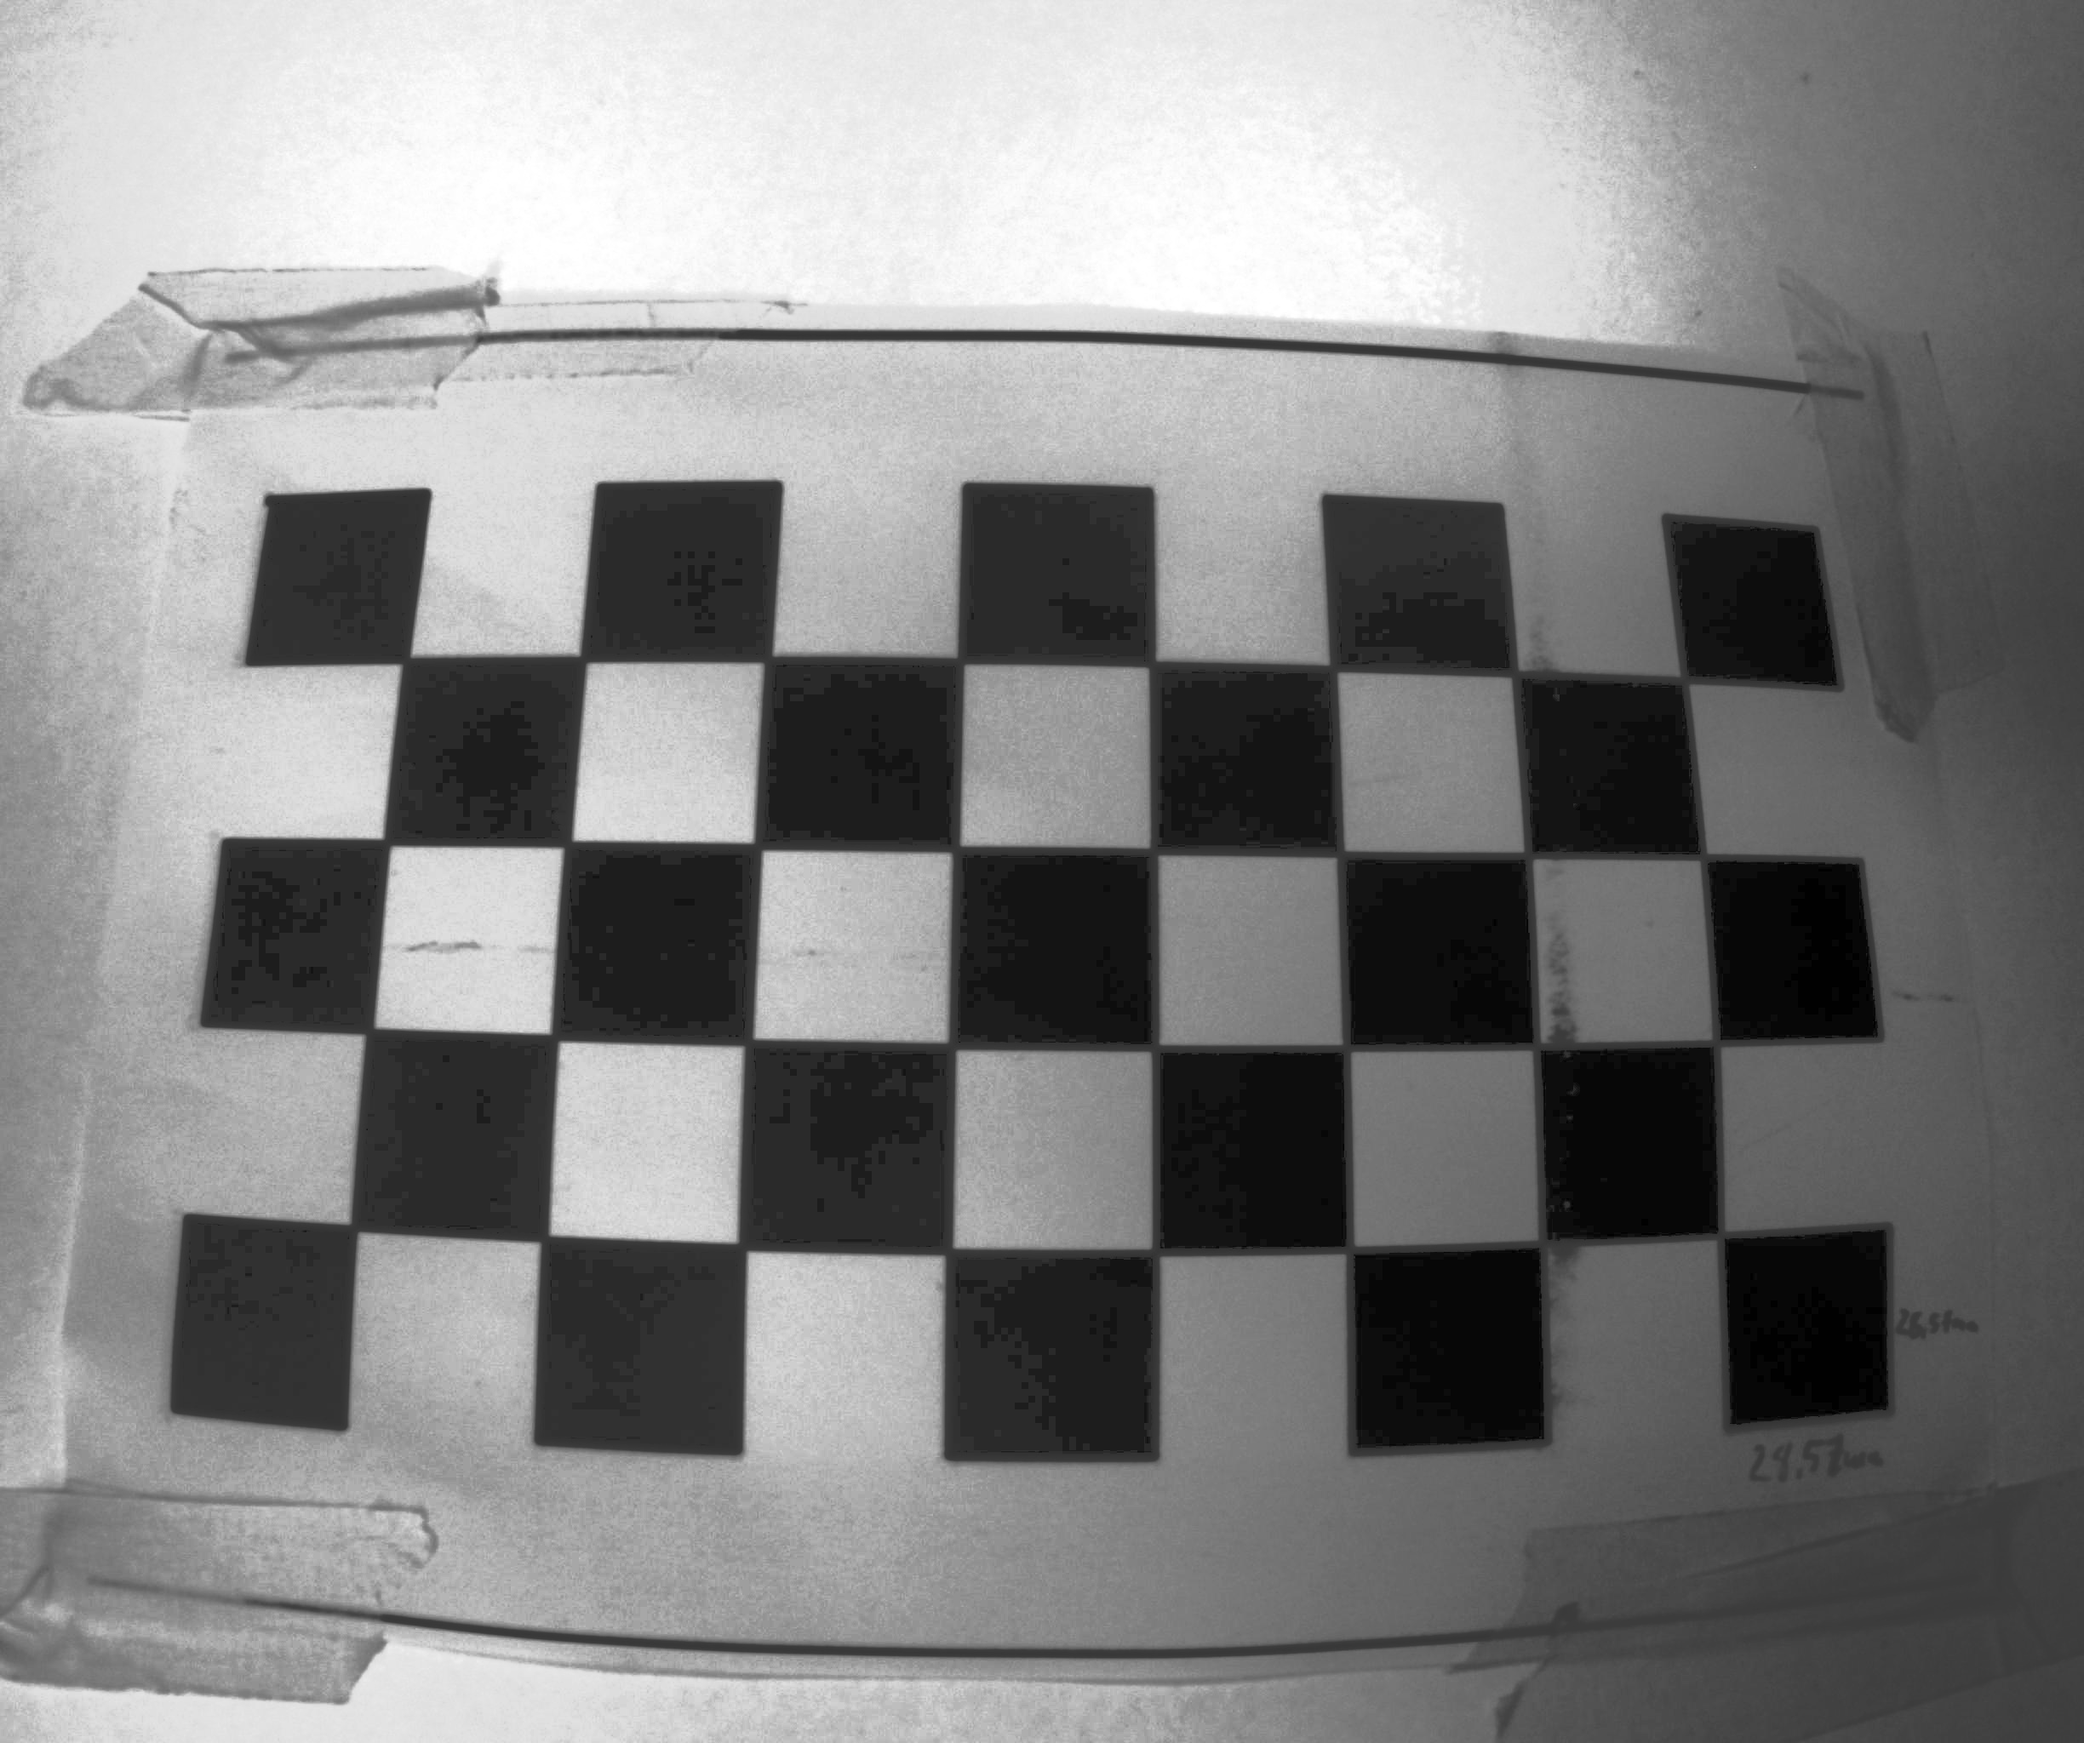
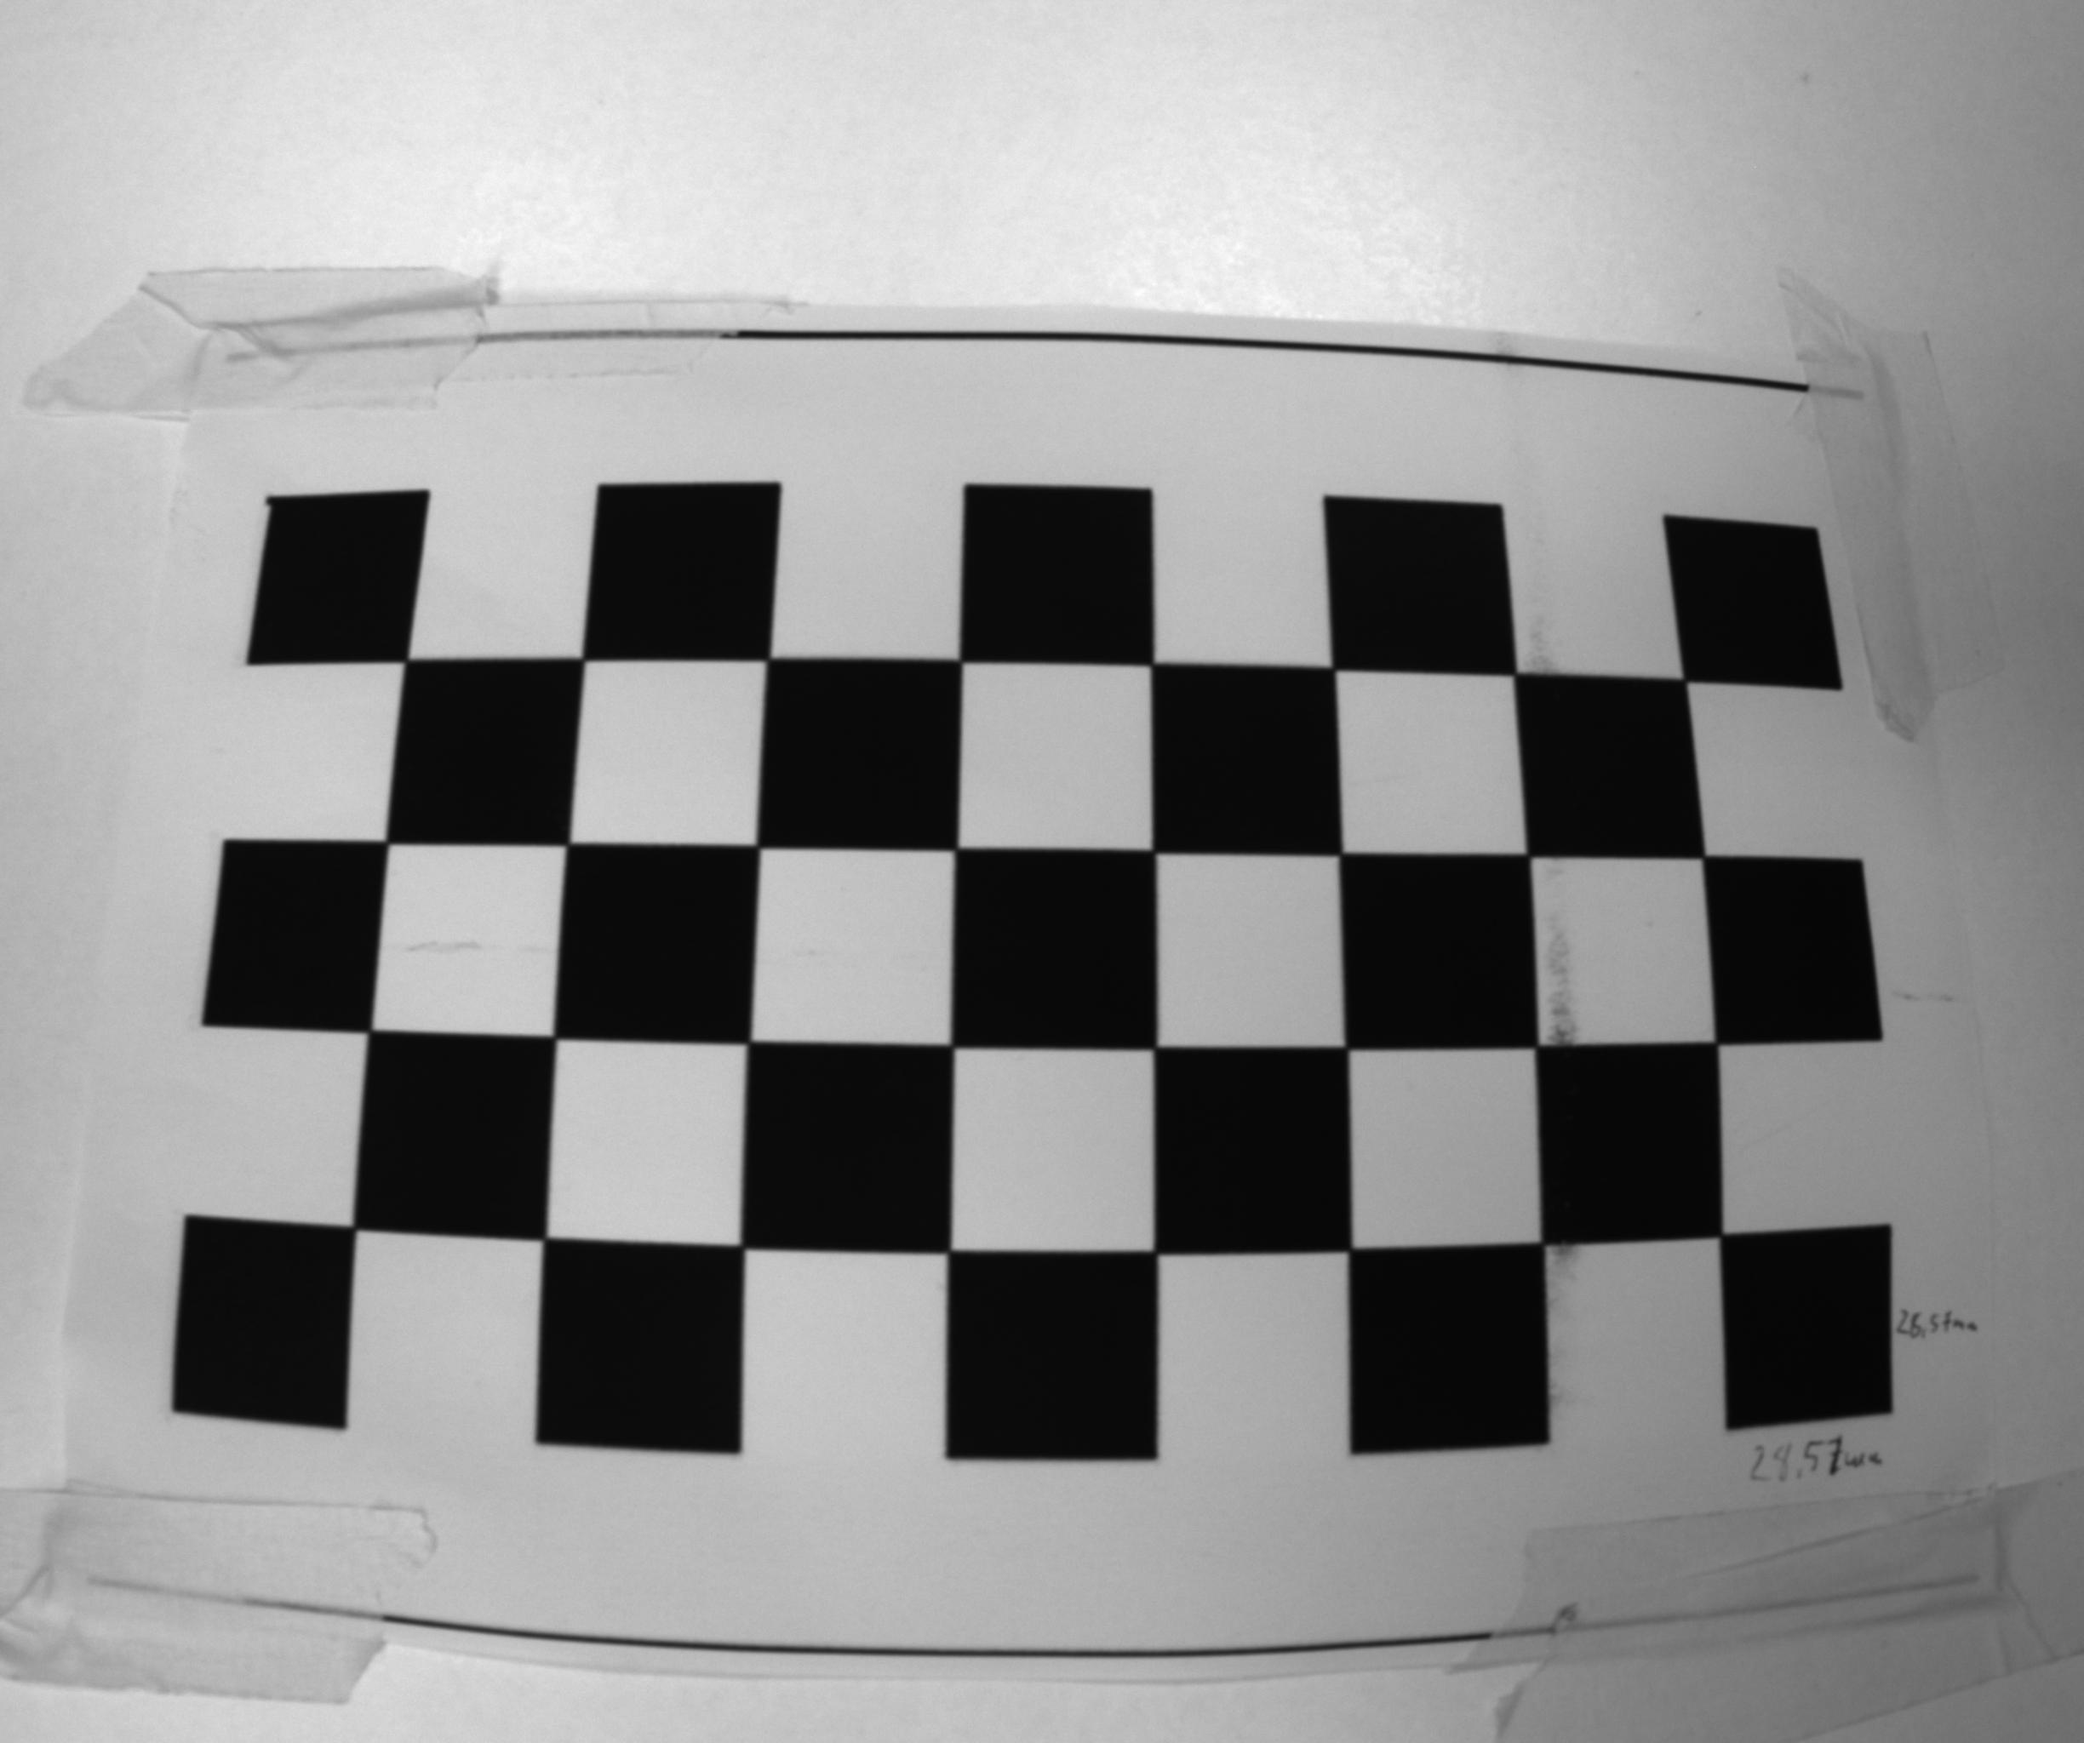
feat: outcomment contrast and add image infos

diff --git a/ocv-calib.py b/ocv-calib.py
@@ -1,5 +1,6 @@
 import cv2
 import os
+import numpy as np
 
 # Aktuelles Verzeichnis
 project_dir = os.path.dirname(os.path.abspath(__file__))
@@ -19,9 +20,9 @@ def edit_image(img):
     gray = cv2.cvtColor(img, cv2.COLOR_BGR2GRAY)
 
     # Kontrast erhöhen
-    edited = cv2.equalizeHist(gray)
+    # edited_img = cv2.equalizeHist(gray)
 
-    return edited
+    return gray
 
 # Bilder bearbeiten und speichern
 for filename in os.listdir(input_folder):
@@ -35,3 +36,11 @@ for filename in os.listdir(input_folder):
         edited_img_path = os.path.join(output_folder, filename)
 
         cv2.imwrite(edited_img_path, edited_img)
+
+
+
+# Schachbrettgröße (innere Ecken)
+chessboard_size = (8, 4)
+
+# Größe eines Quadrats in Millimetern
+square_size = 28.77
